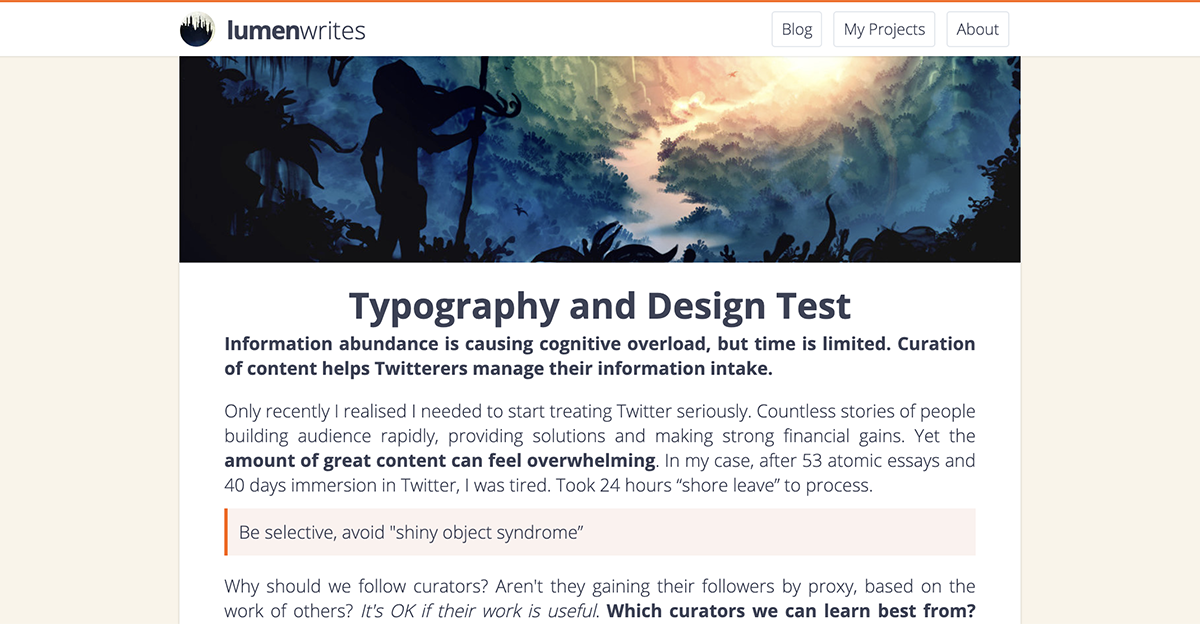
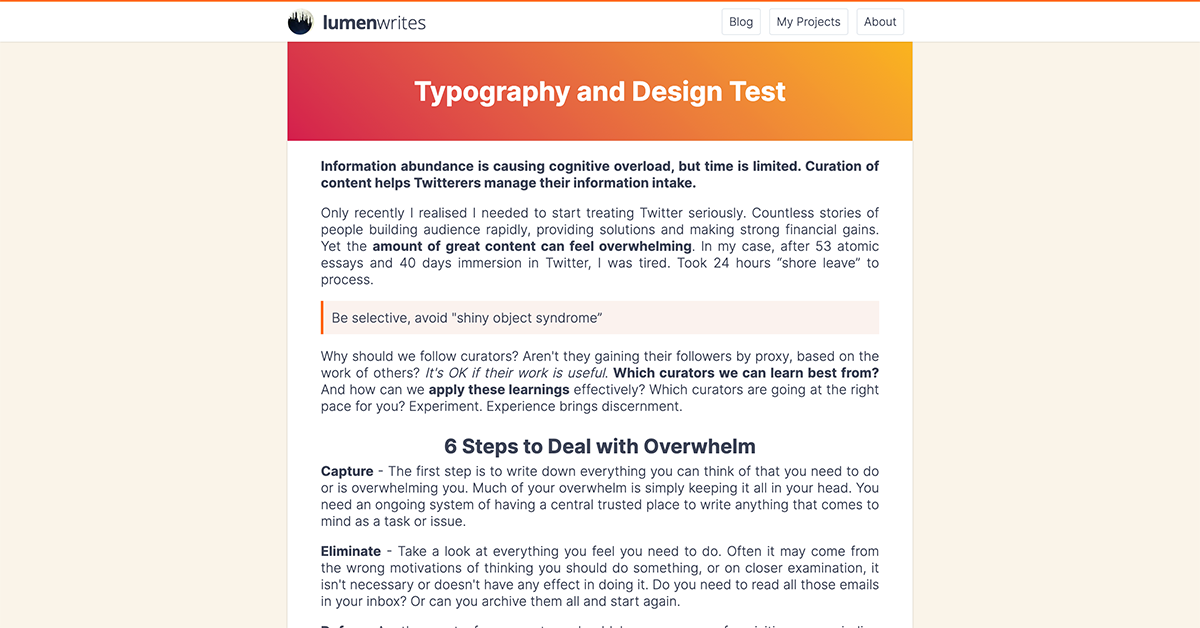
Write Evergreen Atomic Posts.

diff --git a/styles/_post.scss b/styles/_post.scss
@@ -5,7 +5,7 @@
   box-shadow: $box-shadow;
   border-bottom-left-radius: $border-radius;
   border-bottom-right-radius: $border-radius;
-  font-size: 16px;
+  font-size: 17px;
   text-align: justify;
   // Elements
   .post-header {
@@ -14,13 +14,43 @@
     max-width: calc(100% + 80px); // for images
     max-height: none;
   }
+  .h1-header {
+    padding: 40px;
+    margin: -20px -40px 0 -40px;
+    & + * {
+      margin-top: 20px;
+    }
+    &.orange {
+      background-image: linear-gradient(45deg, #d31f4d, #fab41e);
+      color: white;
+    }
+    &.blue {
+      background: #23284b;
+      background-color: #4158d0;      
+      background-image: linear-gradient(184deg, rgba(39, 103, 187, 1) 10.4%, rgba(16, 72, 144, 1) 87.7%);
+      color: white;
+    }
+    &.red {
+      background: #ba2b27;
+      background: linear-gradient(15deg,#93291e,#ba2b27);
+      color: white;
+    }
+    &.purple {
+      background-image: linear-gradient(-165deg, rgba(201, 37, 107, 1) 15.4%, rgba(116, 16, 124, 1) 74.7%);
+      color: white;
+    }
+  }
+
   @media (max-width: 640px) {
-    padding: 20px;
+    padding: 20px 20px 50px 20px; // 30px footer + 20px
     .post-header {
       margin: -20px -20px 0 -20px;
       width: calc(100% + 40px) !important; // important because I want to override react player's defaults
       max-width: calc(100% + 40px); // for images
     }
+  }
+  @media (max-width: 640px) {
+    text-align: unset;
   }
   iframe {
     width: 100%;

diff --git a/content/posts/Write Evergreen Atomic Posts.md b/content/posts/Write Evergreen Atomic Posts.md
@@ -1,0 +1,73 @@
+---
+title: Write Evergreen Atomic Posts
+slug: evergreen-atomic-posts
+description: Turn your notes into posts that are useful, easy to write, easy to discover,  fun to read, and add up to productive output.
+twitter: /illustrations/post/evergreen-atomic-posts/twitter.png
+tags: ["Writing", "Obsidian"]
+comments: https://old.reddit.com/r/writing/comments/qwrdxv/write_evergreen_atomic_posts/
+draft: false
+---
+
+<h1 className="h1-header orange">Write Evergreen Atomic Posts</h1>
+
+Most people take only transient notes - simply jotting down things they want to remember. This is very ineffective. The problem is that such notes are disorganized, difficult to search through and discover later on. You will never *actually* get around to rereading most of your notes, so they will never be useful to you (or anybody else) again. They are also unlikely to lead to creating valuable output.
+
+The solution - **Write Evergreen Atomic Posts**:
+- **Evergreen** - organize your notes into posts which are designed to evolve and accumulate over time.
+- **Atomic** - each post is brief (under 300 words), and focused on one specific idea, trying to encapsulate the entirety of that idea as well as possible. 
+- **Posts** - posts are published on your blog, organized using tags, easy to search through, and useful for other people.
+
+#### Good Evergreen Atomic Posts:
+- Have **Strong Titles** - a good title is an abstraction of the post itself. Use a succinct phrase which aims to make a clear claim that captures the entirety of the note's ideas. That enables you to use titles as an "API", making it easy to refer to your posts (see [Concept handles](https://publish.obsidian.md/andymatuschak/Andy+Matuschak/Concept+handles%2C+after+Alexander)).
+- Are **Modular** - apply the programming principle of *separation of concerns*, each post should only be “about” one thing, making them easy to recombine and interlink later on  (like Wikipedia articles).
+- Are meant to **Evolve** - don't try to make the note complete or perfect right away, don't over-edit it. Develop a practice of looking through your posts, and making incremental improvements every time you read through them.
+- Are **Well Interlinked**  - strive to make links between the posts, they make posts easier to discover and help you to see the connections between different ideas (leading to new insights). Interlinking posts also motivates you to revisit and update your old posts.
+
+#### Benefits:
+Atomic Posts are easy to write:
+- They're based on the notes you're already taking, so you don't have to stare at a blank page searching for ideas. 
+- They're brief, so you're less likely to get overwhelmed and procrastinate out of fear of doing the work.
+- Daily posts contribute to your writing habit, posting a micro essay every day is an easier habit to develop than working on big long-term projects.
+- Publishing regularly is satisfying and gives you instant feedback from your readers, so you can get better at writing by interacting with your audience.
+- They help you to avoid perfectionism. Since they're meant to evolve, your first version of the post doesn't have to be perfect. 
+
+Atomic Posts are easy to read:
+- It's easier and more satisfying to read something short and insightful than to struggle through a long article. 
+- Since they're interlinked, they can lead your readers down the rabbithole of your writing. Somehow reading through a lot of easily digestible and insightful posts feels more engaging.
+
+Atomic Posts add up to larger projects - you can combine multiple posts into longer articles, books, or courses.
+
+Finally, Atomic Posts are better for social media marketing - multiple short posts tend to do better than one big one.
+
+
+<!--
+complete at any time
+refactoring (writing like coding, writing like startup)
+
+maps of content is a separate post.
+## Best Practices
+Use Maps of Content (separate post)
+deas which are too big to get captured succinctly can be high-level overview
+
+- Making a strong claim (creating pressure to support the claim in the note). 
+- Or asking a question (creating pressure to figure it out). The goal is to eventually drop the question mark, refactoring it into declarative/imperative notes.
+- Scott Alexander's concept handles, word defining an idea.
+
+Interlinked and Organized into [[Maps of Content]].
+[[Learn By Teaching]].
+
+https://publish.obsidian.md/andymatuschak/Prefer+note+titles+with+complete+phrases+to+sharpen+claims
+https://publish.obsidian.md/andymatuschak/Evergreen+notes+should+be+atomic
+
+
+
+https://publish.obsidian.md/andymatuschak/Evergreen+notes+should+be+concept-oriented
+Organize notes by concept. Two different books about the same thing - one note.
+
+## Resources/References
+[Andy Matuschak on taking Evergreen Notes](https://publish.obsidian.md/andymatuschak/Andy+Matuschak/Evergreen+notes).
+> 
+The entire note’s ideas can then be referenced using that handle (see [Concept handles, after Alexander](https://publish.obsidian.md/andymatuschak/Andy+Matuschak/Concept+handles%2C+after+Alexander)).
+
+## Related Posts
+-->

diff --git a/content/_drafts/999 Make Your Writing Engaging.md b/content/_drafts/999 Make Your Writing Engaging.md
@@ -1,0 +1,35 @@
+# Make Writing Engaging
+Some people (like Scott Alexander, Paul Graham, and David Wong) make their writing very easy and fun to read. Why are some articles so much more engaging than others?
+
+Here are some things I have noticed.
+
+Simple and clear language. They're not looking for fancy words to impress your with their vocabulary, they don't explain things in a convoluted or needlessly sophisticsted way to demonstrate how smart they are. Instead, they **choose words that convey ideas as simply and plainly as possible**. That makes them easy to read.
+
+**Brevity** - they don't use more words than they have to, they have a high ideas per wordcount ratio.
+
+Their writing is **insightful** - they talk about clever ideas I've never heard of before, they explain complicated concepts in simple and accessible ways. I feel like some of this genuinely makes me smarter (I hope), and some of it is just insight porn - they evoke a pleasant sensation of having learned something that gives me a little rush of dopamine.
+
+Their writing is **useful**. It feels like youre learning something. EY and AR teach rationality, Tyler teaches social skills, Wong and SSC teach whatever insigtful ideas they're curious about and researched.
+
+They're **funny**, they regularly use jokes or witty thurns of phrase. I feel like this is one of the most important factors in engaging writing, but I still don't know how to actually do this, I don't have a formula for making those up.
+
+They write with **authority and conviction**. I think this is something anyone should be able to do - avoid countless disclaimers, **have strong opinions**, express them with conviction. It's much more interesting to read than the insecure authors constantly hedging their bets, and it's not at odds with being rational and open minded. Eliezer Yudkowsky, Ayn Rand, and Owen Cook are my favorite examples of speaking with conviction. they care deeply and passionately about something, see the world from a certain perspective, and unapologetically express it.
+
+A cool trick I have learned by listening to Harmontown (a podcast by Dan Harmon, the author of Community and Rick and Morty) is that it *doesn't even matter* which opinion you have. Often Dan will just **pick a strong stance** and rant about something ridiculous, like some minor annoyance or a movie he disliked. This makes him almost automatically entertaining to listen to.
+
+**Make abstract ideas concrete**, by using specific real-life examples, vivid metaphors, interesting thoughts experiment. Almost any article or a podcast discussing abstract ideas becomes instantly more entertaining when the authors try to list specific examples of a general idea.
+
+Cause **emotional spikes** - both David Wong and Scott Alexander say things that feel like pushing a gas pedal on some sort of emotional issue. They will either directly talk about hot-button issues (like politics), or makes a vivid over the top parables and metaphors, or makes fun of bad/stupid people, which just grabs your attention. David Wong and Owen Cook often directly address their audience, calling out their weaknesses or insecurities, "yelling" at them to do better (in an inspiring way).
+
+(imagine your loved one lying on the street bleeding out, and you urgently need a doctor) 
+
+
+- Concise, clear, eloquent. Basically what PG does, and what HPMOR does much more artistically.
+Honestly, those 3 things would already be enough. If I can write funny/insightful/engaging/clear, that would make it easy and fun to read. If I can also teach them something, theyd feel like theyre getting smarter and learning stuff, gaining value.
+And by the way:
+>> This kind of educational non-fiction writing has everything standup has, except it's much easier, and feels more valuable. Its just as engaging and has enough jokes, but doesnt have to be laugh out loud funny, just fun to read, and it can teach people things.
+
+
+concrete examples
+
+Action

diff --git a/content/_templates/Templates.md b/content/_templates/Templates.md
@@ -1,14 +1,17 @@
+[[How To Guide]]
+Clearly articulate to readers how to do something specific, in a step-by-step format.
+Is this a "How To" article? Then it should be organized in steps (Step 1, Step 2, etc...).  
+
+[[Mistakes & Lessons]]
+Frame a problem, explain why it matters, then tell a story of what was learned as a result.
+Is this a "Mistakes" Twitter thread? Then it should be organized in mistakes (Mistake #1, Mistake #2, etc...).
+Is this a "Lessons Learned" essay? Then it should be organized in lessons (Lesson #1, Lesson #2, etc...).  
+
 ![[Grocery List]]
 This template is an easy way to compress a lot of different types of information and tips into a coherent Atomic Essay.
 
 [[5 Main Points]]
 Walking the reader through a specific idea? Use this template to organize your thoughts into a coherent roadmap.
-
-[[How To Guide]]
-Clearly articulate to readers how to do something specific, in a step-by-step format.
-
-[[Mistakes & Lessons]]
-Frame a problem, explain why it matters, then tell a story of what was learned as a result.
 
 [[Category POV]]
 Educate readers in new ways, and help them see the world through your point of view.

diff --git a/content/_drafts/Typography and Design Test.md b/content/_drafts/Typography and Design Test.md
@@ -11,7 +11,7 @@ draft: false
 
 <!-- <img className="post-header" src="/img/valley-cropped.png" /> -->
 
-# Typography and Design Test
+<h1 className="h1-header orange">Typography and Design Test</h1>
 
 **Information abundance is causing cognitive overload, but time is limited. Curation of content helps Twitterers manage their information intake.**
 

diff --git a/content/_drafts/999 Making Blog Post Ideas Types of Posts.md b/content/_drafts/999 Making Blog Post Ideas Types of Posts.md
@@ -1,0 +1,4 @@
+Epiphanies under practice
+Book notes
+infinite idea generation: https://www.ship30for30.com/post/how-to-start-writing-online-the-ship-30-for-30-ultimate-guide
+progressive summarization: https://learn.fortelabs.co/p/write-of-passage1121
